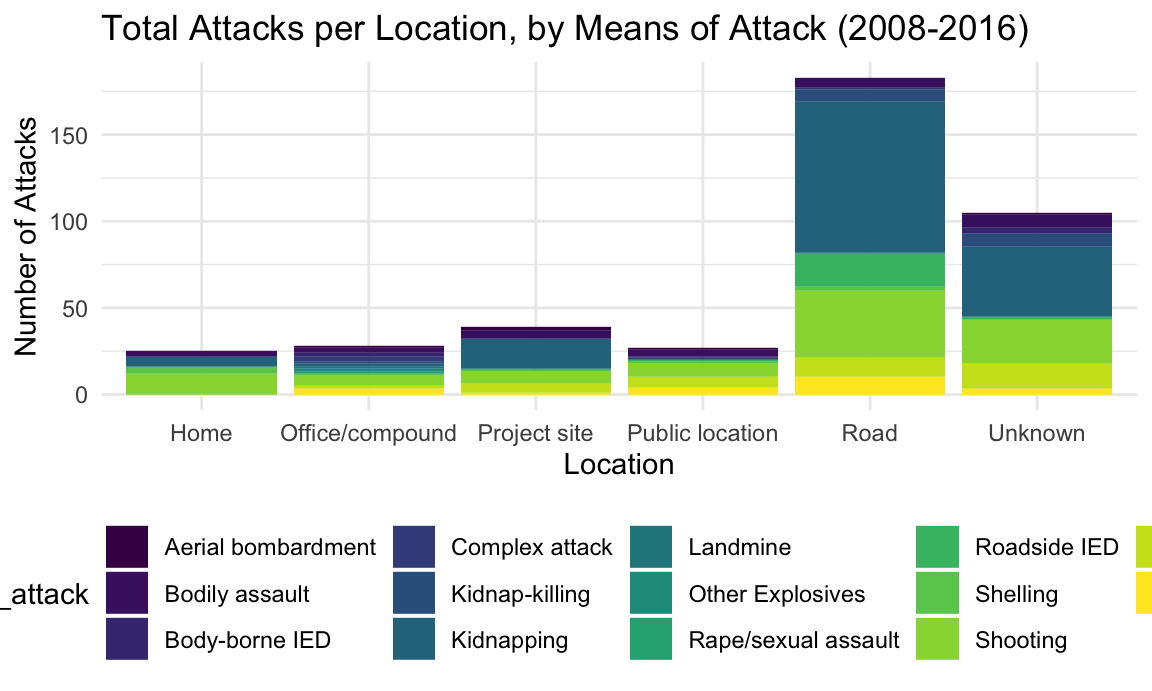
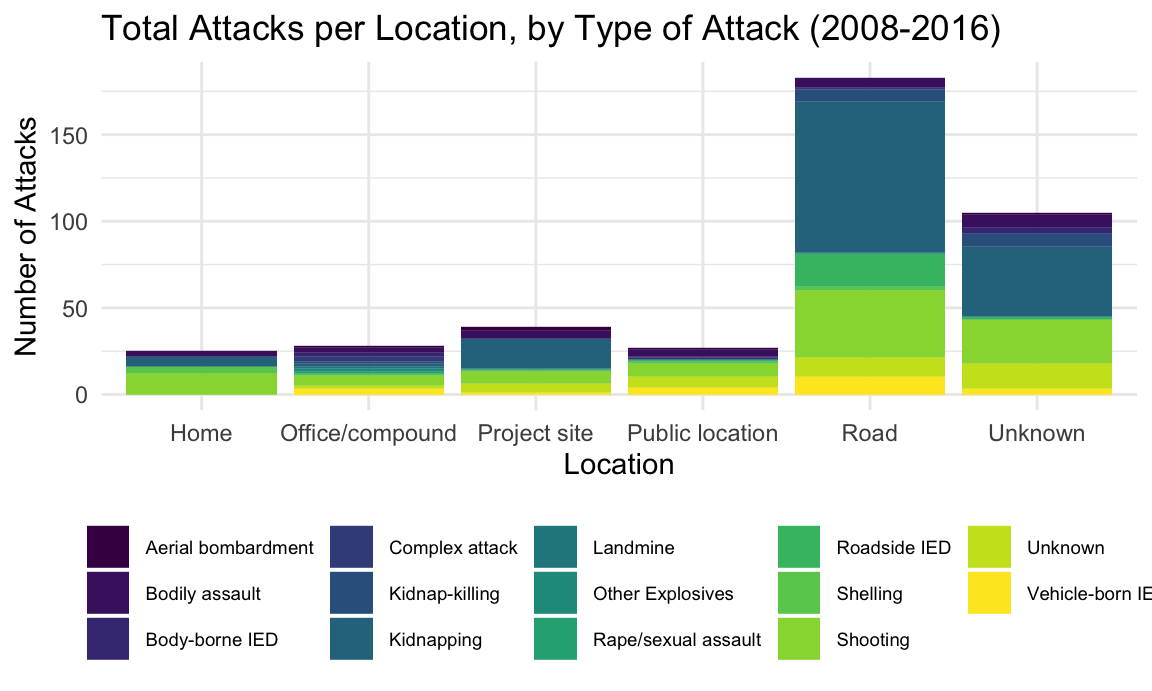
afghanistan almost finished

Changed region(s): [[0.0, 0.7598, 1.0, 0.9725], [0.5, 0.0, 0.9062, 0.0608]]

diff --git a/afghanistan_case_study.html b/afghanistan_case_study.html
@@ -508,11 +508,11 @@ afghan_aidworker_df %&gt;%
     x = ~year, y = ~total_victims, color = ~attack_context,
     type = &quot;scatter&quot;) %&gt;%
     layout(
-    title = &quot;Victims per Year by Attack Context (Left) and Type (Right)&quot;)
+    title = &quot;Victims per Year by Attack Context (Left) and Attack Type (Right)&quot;)
 
 subplot(means_attack_p, attack_context_p)</code></pre>
-<div id="htmlwidget-e7e4549a05555a524931" style="width:90%;height:345.6px;" class="plotly html-widget"></div>
-<script type="application/json" data-for="htmlwidget-e7e4549a05555a524931">{"x":{"data":[{"x":[2008,2009,2013,2015,2016],"y":[4,1,1,49,1],"type":"scatter","mode":"markers","name":"Aerial bombardment","marker":{"color":"rgba(102,194,165,1)","line":{"color":"rgba(102,194,165,1)"}},"textfont":{"color":"rgba(102,194,165,1)"},"error_y":{"color":"rgba(102,194,165,1)"},"error_x":{"color":"rgba(102,194,165,1)"},"line":{"color":"rgba(102,194,165,1)"},"xaxis":"x","yaxis":"y","frame":null},{"x":[2009,2009,2010,2010,2010,2011,2011,2011,2011,2011,2011,2011,2012,2012,2012,2012,2012,2013,2013,2013,2013,2013,2013,2014,2014,2014,2014,2015,2016],"y":[1,1,1,3,1,2,1,1,1,1,2,1,1,1,1,1,2,1,1,2,2,1,1,4,1,1,1,1,1],"type":"scatter","mode":"markers","name":"Bodily assault","marker":{"color":"rgba(199,169,129,1)","line":{"color":"rgba(199,169,129,1)"}},"textfont":{"color":"rgba(199,169,129,1)"},"error_y":{"color":"rgba(199,169,129,1)"},"error_x":{"color":"rgba(199,169,129,1)"},"line":{"color":"rgba(199,169,129,1)"},"xaxis":"x","yaxis":"y","frame":null},{"x":[2008,2009,2012,2013,2013,2013],"y":[1,12,1,1,4,1],"type":"scatter","mode":"markers","name":"Body-borne IED","marker":{"color":"rgba(246,143,106,1)","line":{"color":"rgba(246,143,106,1)"}},"textfont":{"color":"rgba(246,143,106,1)"},"error_y":{"color":"rgba(246,143,106,1)"},"error_x":{"color":"rgba(246,143,106,1)"},"line":{"color":"rgba(246,143,106,1)"},"xaxis":"x","yaxis":"y","frame":null},{"x":[2011,2012,2013,2013,2014],"y":[9,4,4,2,2],"type":"scatter","mode":"markers","name":"Complex attack","marker":{"color":"rgba(195,154,163,1)","line":{"color":"rgba(195,154,163,1)"}},"textfont":{"color":"rgba(195,154,163,1)"},"error_y":{"color":"rgba(195,154,163,1)"},"error_x":{"color":"rgba(195,154,163,1)"},"line":{"color":"rgba(195,154,163,1)"},"xaxis":"x","yaxis":"y","frame":null},{"x":[2008,2008,2008,2008,2010,2011,2011,2011,2011,2013,2013,2013,2014,2015,2015,2015],"y":[2,1,1,1,4,1,1,6,3,5,1,2,1,5,1,2],"type":"scatter","mode":"markers","name":"Kidnap-killing","marker":{"color":"rgba(157,157,202,1)","line":{"color":"rgba(157,157,202,1)"}},"textfont":{"color":"rgba(157,157,202,1)"},"error_y":{"color":"rgba(157,157,202,1)"},"error_x":{"color":"rgba(157,157,202,1)"},"line":{"color":"rgba(157,157,202,1)"},"xaxis":"x","yaxis":"y","frame":null},{"x":[2008,2008,2008,2008,2008,2008,2009,2009,2009,2009,2009,2009,2009,2009,2010,2010,2010,2010,2010,2010,2010,2010,2010,2010,2010,2010,2010,2010,2010,2010,2010,2010,2010,2010,2010,2010,2011,2011,2011,2011,2011,2011,2011,2011,2011,2011,2011,2011,2011,2011,2012,2012,2012,2012,2012,2012,2012,2012,2012,2012,2012,2012,2012,2012,2012,2012,2012,2012,2012,2012,2012,2012,2013,2013,2013,2013,2013,2013,2013,2013,2013,2013,2013,2013,2013,2013,2013,2013,2013,2013,2013,2013,2013,2013,2013,2013,2013,2013,2013,2013,2014,2014,2014,2014,2014,2014,2014,2014,2014,2014,2014,2014,2014,2014,2014,2014,2014,2014,2014,2014,2014,2014,2014,2014,2015,2015,2015,2015,2015,2015,2015,2015,2015,2015,2015,2015,2015,2015,2016,2016,2016,2016,2016,2016,2016,2016,2016,2016,2016,2016,2016,2016],"y":[2,3,2,1,1,1,3,1,2,1,1,1,16,2,3,1,5,2,3,4,2,2,2,2,2,5,4,4,1,2,2,1,1,3,1,1,1,3,2,1,1,3,2,3,1,4,2,3,4,1,1,2,3,1,5,4,2,1,1,2,1,1,1,2,4,4,1,2,1,3,3,5,4,1,1,3,1,1,1,1,10,3,11,2,3,1,3,3,2,2,5,2,1,3,1,3,2,3,1,1,3,1,1,3,2,1,4,1,1,2,1,1,4,1,5,3,7,3,2,1,6,3,1,4,1,3,1,2,1,2,1,3,2,2,1,2,1,2,4,5,7,2,7,1,1,2,1,3,2,1,4,1],"type":"scatter","mode":"markers","name":"Kidnapping","marker":{"color":"rgba(206,146,197,1)","line":{"color":"rgba(206,146,197,1)"}},"textfont":{"color":"rgba(206,146,197,1)"},"error_y":{"color":"rgba(206,146,197,1)"},"error_x":{"color":"rgba(206,146,197,1)"},"line":{"color":"rgba(206,146,197,1)"},"xaxis":"x","yaxis":"y","frame":null},{"x":[2010,2015],"y":[5,1],"type":"scatter","mode":"markers","name":"Landmine","marker":{"color":"rgba(220,159,172,1)","line":{"color":"rgba(220,159,172,1)"}},"textfont":{"color":"rgba(220,159,172,1)"},"error_y":{"color":"rgba(220,159,172,1)"},"error_x":{"color":"rgba(220,159,172,1)"},"line":{"color":"rgba(220,159,172,1)"},"xaxis":"x","yaxis":"y","frame":null},{"x":[2012,2013,2014],"y":[3,3,1],"type":"scatter","mode":"markers","name":"Other Explosives","marker":{"color":"rgba(186,200,114,1)","line":{"color":"rgba(186,200,114,1)"}},"textfont":{"color":"rgba(186,200,114,1)"},"error_y":{"color":"rgba(186,200,114,1)"},"error_x":{"color":"rgba(186,200,114,1)"},"line":{"color":"rgba(186,200,114,1)"},"xaxis":"x","yaxis":"y","frame":null},{"x":[2013],"y":[1],"type":"scatter","mode":"markers","name":"Rape/sexual assault","marker":{"color":"rgba(196,217,74,1)","line":{"color":"rgba(196,217,74,1)"}},"textfont":{"color":"rgba(196,217,74,1)"},"error_y":{"color":"rgba(196,217,74,1)"},"error_x":{"color":"rgba(196,217,74,1)"},"line":{"color":"rgba(196,217,74,1)"},"xaxis":"x","yaxis":"y","frame":null},{"x":[2008,2009,2010,2010,2011,2012,2012,2012,2012,2013,2013,2013,2013,2013,2013,2014,2014,2014,2014,2015,2015,2016],"y":[1,3,3,2,3,1,1,1,1,1,3,2,1,1,1,3,1,3,2,1,1,1],"type":"scatter","mode":"markers","name":"Roadside IED","marker":{"color":"rgba(242,217,54,1)","line":{"color":"rgba(242,217,54,1)"}},"textfont":{"color":"rgba(242,217,54,1)"},"error_y":{"color":"rgba(242,217,54,1)"},"error_x":{"color":"rgba(242,217,54,1)"},"line":{"color":"rgba(242,217,54,1)"},"xaxis":"x","yaxis":"y","frame":null},{"x":[2009,2010,2010,2010,2011,2011,2013,2013,2013],"y":[1,1,4,1,1,3,1,1,1],"type":"scatter","mode":"markers","name":"Shelling","marker":{"color":"rgba(246,209,94,1)","line":{"color":"rgba(246,209,94,1)"}},"textfont":{"color":"rgba(246,209,94,1)"},"error_y":{"color":"rgba(246,209,94,1)"},"error_x":{"color":"rgba(246,209,94,1)"},"line":{"color":"rgba(246,209,94,1)"},"xaxis":"x","yaxis":"y","frame":null},{"x":[2008,2008,2008,2008,2008,2008,2008,2008,2009,2009,2009,2009,2009,2009,2010,2010,2010,2010,2010,2010,2010,2010,2010,2010,2010,2010,2010,2010,2011,2011,2011,2011,2011,2011,2011,2011,2011,2011,2011,2011,2011,2011,2011,2012,2012,2012,2012,2012,2012,2012,2012,2012,2012,2012,2012,2012,2012,2012,2012,2013,2013,2013,2013,2013,2013,2013,2013,2013,2013,2013,2013,2013,2013,2013,2013,2013,2013,2014,2014,2014,2014,2014,2014,2014,2014,2014,2014,2015,2015,2015,2016,2016,2016,2016,2016,2016,2016],"y":[1,1,2,1,5,1,1,1,1,1,1,1,1,1,4,1,1,1,1,2,1,1,2,1,2,1,1,1,1,1,1,3,1,1,1,1,1,1,1,1,1,1,1,1,1,1,1,1,1,2,1,1,1,1,4,1,1,1,1,1,1,1,4,1,1,1,2,1,1,1,1,1,1,4,2,1,7,1,1,1,2,1,1,1,2,1,2,9,1,2,1,2,7,3,1,1,1],"type":"scatter","mode":"markers","name":"Shooting","marker":{"color":"rgba(231,198,142,1)","line":{"color":"rgba(231,198,142,1)"}},"textfont":{"color":"rgba(231,198,142,1)"},"error_y":{"color":"rgba(231,198,142,1)"},"error_x":{"color":"rgba(231,198,142,1)"},"line":{"color":"rgba(231,198,142,1)"},"xaxis":"x","yaxis":"y","frame":null},{"x":[2008,2008,2008,2008,2008,2008,2008,2009,2009,2009,2009,2009,2010,2010,2010,2010,2010,2010,2010,2010,2010,2010,2011,2011,2011,2011,2011,2012,2012,2013,2013,2013,2013,2014,2014,2014,2014,2014,2015],"y":[1,1,12,1,2,6,1,1,1,1,1,5,1,1,1,1,1,10,1,1,1,2,1,1,1,1,1,1,4,3,1,3,2,1,11,6,7,2,3],"type":"scatter","mode":"markers","name":"Unknown","marker":{"color":"rgba(207,188,163,1)","line":{"color":"rgba(207,188,163,1)"}},"textfont":{"color":"rgba(207,188,163,1)"},"error_y":{"color":"rgba(207,188,163,1)"},"error_x":{"color":"rgba(207,188,163,1)"},"line":{"color":"rgba(207,188,163,1)"},"xaxis":"x","yaxis":"y","frame":null},{"x":[2008,2008,2009,2010,2011,2011,2012,2012,2012,2012,2013,2013,2013,2013,2013,2014,2014,2014,2014,2015,2016],"y":[4,1,1,1,3,2,2,2,3,5,2,1,1,1,1,1,2,1,2,1,3],"type":"scatter","mode":"markers","name":"Vehicle-born IED","marker":{"color":"rgba(179,179,179,1)","line":{"color":"rgba(179,179,179,1)"}},"textfont":{"color":"rgba(179,179,179,1)"},"error_y":{"color":"rgba(179,179,179,1)"},"error_x":{"color":"rgba(179,179,179,1)"},"line":{"color":"rgba(179,179,179,1)"},"xaxis":"x","yaxis":"y","frame":null},{"x":[2008,2008,2008,2008,2008,2008,2008,2008,2008,2008,2008,2008,2008,2008,2008,2009,2009,2009,2009,2009,2010,2010,2010,2010,2010,2010,2010,2010,2010,2010,2010,2010,2010,2010,2010,2010,2010,2010,2010,2010,2010,2010,2010,2010,2010,2010,2010,2010,2011,2011,2011,2011,2011,2011,2011,2011,2011,2011,2011,2011,2011,2011,2011,2011,2011,2011,2011,2011,2011,2012,2012,2012,2012,2012,2012,2012,2012,2012,2012,2012,2012,2012,2012,2012,2012,2012,2012,2012,2012,2012,2012,2012,2012,2012,2012,2012,2012,2012,2012,2013,2013,2013,2013,2013,2013,2013,2013,2013,2013,2013,2013,2013,2013,2013,2013,2013,2013,2013,2013,2013,2013,2013,2013,2013,2013,2013,2013,2013,2013,2013,2013,2013,2013,2013,2014,2014,2014,2014,2014,2014,2014,2014,2014,2014,2014,2014,2014,2014,2014,2014,2014,2015,2015,2015,2015,2015,2015,2015,2015,2015,2015,2015,2015,2015,2015,2016,2016,2016,2016,2016,2016,2016,2016,2016,2016,2016,2016],"y":[2,1,12,2,1,2,3,5,1,6,4,1,1,1,1,1,1,1,1,16,5,1,5,1,1,2,4,1,2,2,10,2,5,3,2,1,4,4,1,2,2,1,2,2,3,1,1,1,3,1,1,1,3,3,2,1,1,1,1,3,3,1,2,2,3,2,3,4,1,1,2,1,3,1,1,4,1,1,1,2,1,1,1,2,1,1,4,2,1,3,1,4,4,2,1,1,1,1,3,4,1,1,1,3,1,4,1,1,3,11,3,2,2,1,3,1,3,2,2,1,1,1,1,1,5,2,1,4,3,2,2,7,1,1,3,3,3,1,2,2,1,2,1,6,4,2,5,3,2,3,1,3,1,2,3,1,2,1,3,1,2,1,1,1,2,5,2,7,2,1,3,1,3,1,4,1,1],"type":"scatter","mode":"markers","name":"Ambush","marker":{"color":"rgba(102,194,165,1)","line":{"color":"rgba(102,194,165,1)"}},"textfont":{"color":"rgba(102,194,165,1)"},"error_y":{"color":"rgba(102,194,165,1)"},"error_x":{"color":"rgba(102,194,165,1)"},"line":{"color":"rgba(102,194,165,1)"},"xaxis":"x2","yaxis":"y2","frame":null},{"x":[2008,2008,2009,2009,2009,2009,2010,2010,2010,2011,2011,2011,2011,2011,2011,2011,2011,2012,2012,2012,2012,2012,2012,2013,2013,2013,2013,2013,2013,2013,2013,2013,2014,2014,2015,2015,2016,2016],"y":[4,1,1,1,1,1,1,1,1,1,1,1,1,1,1,1,3,1,1,2,1,1,1,1,1,1,1,1,1,1,2,1,2,1,49,2,1,1],"type":"scatter","mode":"markers","name":"Combat/Crossfire","marker":{"color":"rgba(252,141,98,1)","line":{"color":"rgba(252,141,98,1)"}},"textfont":{"color":"rgba(252,141,98,1)"},"error_y":{"color":"rgba(252,141,98,1)"},"error_x":{"color":"rgba(252,141,98,1)"},"line":{"color":"rgba(252,141,98,1)"},"xaxis":"x2","yaxis":"y2","frame":null},{"x":[2008,2008,2008,2008,2009,2009,2009,2009,2009,2010,2010,2010,2010,2010,2010,2010,2010,2010,2010,2010,2011,2011,2011,2011,2011,2011,2011,2011,2011,2011,2011,2012,2012,2012,2012,2012,2012,2013,2013,2013,2013,2013,2013,2013,2013,2013,2013,2013,2013,2013,2013,2013,2014,2014,2014,2014,2014,2014,2016,2016,2016],"y":[1,1,1,1,1,1,1,1,1,4,1,1,1,1,1,2,1,1,3,1,1,1,1,1,1,1,2,1,1,3,1,1,1,1,1,1,1,1,1,1,1,1,1,1,1,1,2,1,2,1,1,3,1,2,1,1,1,1,1,1,1],"type":"scatter","mode":"markers","name":"Individual attack","marker":{"color":"rgba(141,160,203,1)","line":{"color":"rgba(141,160,203,1)"}},"textfont":{"color":"rgba(141,160,203,1)"},"error_y":{"color":"rgba(141,160,203,1)"},"error_x":{"color":"rgba(141,160,203,1)"},"line":{"color":"rgba(141,160,203,1)"},"xaxis":"x2","yaxis":"y2","frame":null},{"x":[2012,2013],"y":[2,2],"type":"scatter","mode":"markers","name":"Mob violence","marker":{"color":"rgba(231,138,195,1)","line":{"color":"rgba(231,138,195,1)"}},"textfont":{"color":"rgba(231,138,195,1)"},"error_y":{"color":"rgba(231,138,195,1)"},"error_x":{"color":"rgba(231,138,195,1)"},"line":{"color":"rgba(231,138,195,1)"},"xaxis":"x2","yaxis":"y2","frame":null},{"x":[2008,2008,2008,2009,2009,2010,2010,2011,2011,2011,2011,2012,2012,2012,2012,2012,2012,2012,2012,2012,2013,2013,2013,2013,2013,2013,2013,2014,2014,2014,2014,2014,2015,2015,2015,2015,2016,2016,2016,2016,2016],"y":[2,1,1,1,12,1,1,2,1,1,9,1,1,2,5,3,2,4,5,5,1,2,3,1,4,4,3,2,1,1,2,2,1,9,1,1,3,7,7,1,1],"type":"scatter","mode":"markers","name":"Raid","marker":{"color":"rgba(166,216,84,1)","line":{"color":"rgba(166,216,84,1)"}},"textfont":{"color":"rgba(166,216,84,1)"},"error_y":{"color":"rgba(166,216,84,1)"},"error_x":{"color":"rgba(166,216,84,1)"},"line":{"color":"rgba(166,216,84,1)"},"xaxis":"x2","yaxis":"y2","frame":null},{"x":[2008,2008,2008,2008,2008,2008,2009,2009,2009,2009,2009,2009,2009,2009,2009,2009,2010,2010,2010,2010,2010,2010,2010,2010,2010,2010,2010,2010,2010,2011,2011,2011,2011,2011,2011,2011,2012,2012,2012,2012,2013,2013,2013,2013,2013,2013,2013,2013,2013,2013,2013,2013,2013,2013,2014,2014,2014,2014,2014,2014,2014,2014,2014,2014,2014,2014,2014,2014,2014,2014,2014,2014,2014,2014,2014,2014,2014,2014,2015,2015,2015,2015,2015,2015,2015,2016,2016,2016],"y":[1,1,1,1,2,1,3,2,1,1,1,3,2,1,1,5,1,1,3,1,3,4,2,2,4,1,1,2,1,1,1,1,1,6,1,4,1,1,4,3,1,1,10,1,5,1,3,1,1,3,2,2,3,1,4,1,1,1,1,1,1,1,4,1,1,3,1,11,1,1,7,2,1,7,3,1,6,4,5,1,2,1,2,2,1,4,2,2],"type":"scatter","mode":"markers","name":"Unknown","marker":{"color":"rgba(255,217,47,1)","line":{"color":"rgba(255,217,47,1)"}},"textfont":{"color":"rgba(255,217,47,1)"},"error_y":{"color":"rgba(255,217,47,1)"},"error_x":{"color":"rgba(255,217,47,1)"},"line":{"color":"rgba(255,217,47,1)"},"xaxis":"x2","yaxis":"y2","frame":null}],"layout":{"xaxis":{"domain":[0,0.48],"automargin":true,"anchor":"y"},"xaxis2":{"domain":[0.52,1],"automargin":true,"anchor":"y2"},"yaxis2":{"domain":[0,1],"automargin":true,"anchor":"x2"},"yaxis":{"domain":[0,1],"automargin":true,"anchor":"x"},"annotations":[],"shapes":[],"images":[],"margin":{"b":40,"l":60,"t":25,"r":10},"title":"Victims per Year by Attack Context (Left) and Type (Right)","hovermode":"closest","showlegend":true},"attrs":{"626a482eac7c":{"x":{},"y":{},"color":{},"alpha_stroke":1,"sizes":[10,100],"spans":[1,20],"type":"scatter"},"626a703e25e9":{"x":{},"y":{},"color":{},"alpha_stroke":1,"sizes":[10,100],"spans":[1,20],"type":"scatter"}},"source":"A","config":{"showSendToCloud":false},"highlight":{"on":"plotly_click","persistent":false,"dynamic":false,"selectize":false,"opacityDim":0.2,"selected":{"opacity":1},"debounce":0},"subplot":true,"shinyEvents":["plotly_hover","plotly_click","plotly_selected","plotly_relayout","plotly_brushed","plotly_brushing","plotly_clickannotation","plotly_doubleclick","plotly_deselect","plotly_afterplot","plotly_sunburstclick"],"base_url":"https://plot.ly"},"evals":[],"jsHooks":[]}</script>
+<div id="htmlwidget-2b1147f91043cbf0282f" style="width:90%;height:345.6px;" class="plotly html-widget"></div>
+<script type="application/json" data-for="htmlwidget-2b1147f91043cbf0282f">{"x":{"data":[{"x":[2008,2009,2013,2015,2016],"y":[4,1,1,49,1],"type":"scatter","mode":"markers","name":"Aerial bombardment","marker":{"color":"rgba(102,194,165,1)","line":{"color":"rgba(102,194,165,1)"}},"textfont":{"color":"rgba(102,194,165,1)"},"error_y":{"color":"rgba(102,194,165,1)"},"error_x":{"color":"rgba(102,194,165,1)"},"line":{"color":"rgba(102,194,165,1)"},"xaxis":"x","yaxis":"y","frame":null},{"x":[2009,2009,2010,2010,2010,2011,2011,2011,2011,2011,2011,2011,2012,2012,2012,2012,2012,2013,2013,2013,2013,2013,2013,2014,2014,2014,2014,2015,2016],"y":[1,1,1,3,1,2,1,1,1,1,2,1,1,1,1,1,2,1,1,2,2,1,1,4,1,1,1,1,1],"type":"scatter","mode":"markers","name":"Bodily assault","marker":{"color":"rgba(199,169,129,1)","line":{"color":"rgba(199,169,129,1)"}},"textfont":{"color":"rgba(199,169,129,1)"},"error_y":{"color":"rgba(199,169,129,1)"},"error_x":{"color":"rgba(199,169,129,1)"},"line":{"color":"rgba(199,169,129,1)"},"xaxis":"x","yaxis":"y","frame":null},{"x":[2008,2009,2012,2013,2013,2013],"y":[1,12,1,1,4,1],"type":"scatter","mode":"markers","name":"Body-borne IED","marker":{"color":"rgba(246,143,106,1)","line":{"color":"rgba(246,143,106,1)"}},"textfont":{"color":"rgba(246,143,106,1)"},"error_y":{"color":"rgba(246,143,106,1)"},"error_x":{"color":"rgba(246,143,106,1)"},"line":{"color":"rgba(246,143,106,1)"},"xaxis":"x","yaxis":"y","frame":null},{"x":[2011,2012,2013,2013,2014],"y":[9,4,4,2,2],"type":"scatter","mode":"markers","name":"Complex attack","marker":{"color":"rgba(195,154,163,1)","line":{"color":"rgba(195,154,163,1)"}},"textfont":{"color":"rgba(195,154,163,1)"},"error_y":{"color":"rgba(195,154,163,1)"},"error_x":{"color":"rgba(195,154,163,1)"},"line":{"color":"rgba(195,154,163,1)"},"xaxis":"x","yaxis":"y","frame":null},{"x":[2008,2008,2008,2008,2010,2011,2011,2011,2011,2013,2013,2013,2014,2015,2015,2015],"y":[2,1,1,1,4,1,1,6,3,5,1,2,1,5,1,2],"type":"scatter","mode":"markers","name":"Kidnap-killing","marker":{"color":"rgba(157,157,202,1)","line":{"color":"rgba(157,157,202,1)"}},"textfont":{"color":"rgba(157,157,202,1)"},"error_y":{"color":"rgba(157,157,202,1)"},"error_x":{"color":"rgba(157,157,202,1)"},"line":{"color":"rgba(157,157,202,1)"},"xaxis":"x","yaxis":"y","frame":null},{"x":[2008,2008,2008,2008,2008,2008,2009,2009,2009,2009,2009,2009,2009,2009,2010,2010,2010,2010,2010,2010,2010,2010,2010,2010,2010,2010,2010,2010,2010,2010,2010,2010,2010,2010,2010,2010,2011,2011,2011,2011,2011,2011,2011,2011,2011,2011,2011,2011,2011,2011,2012,2012,2012,2012,2012,2012,2012,2012,2012,2012,2012,2012,2012,2012,2012,2012,2012,2012,2012,2012,2012,2012,2013,2013,2013,2013,2013,2013,2013,2013,2013,2013,2013,2013,2013,2013,2013,2013,2013,2013,2013,2013,2013,2013,2013,2013,2013,2013,2013,2013,2014,2014,2014,2014,2014,2014,2014,2014,2014,2014,2014,2014,2014,2014,2014,2014,2014,2014,2014,2014,2014,2014,2014,2014,2015,2015,2015,2015,2015,2015,2015,2015,2015,2015,2015,2015,2015,2015,2016,2016,2016,2016,2016,2016,2016,2016,2016,2016,2016,2016,2016,2016],"y":[2,3,2,1,1,1,3,1,2,1,1,1,16,2,3,1,5,2,3,4,2,2,2,2,2,5,4,4,1,2,2,1,1,3,1,1,1,3,2,1,1,3,2,3,1,4,2,3,4,1,1,2,3,1,5,4,2,1,1,2,1,1,1,2,4,4,1,2,1,3,3,5,4,1,1,3,1,1,1,1,10,3,11,2,3,1,3,3,2,2,5,2,1,3,1,3,2,3,1,1,3,1,1,3,2,1,4,1,1,2,1,1,4,1,5,3,7,3,2,1,6,3,1,4,1,3,1,2,1,2,1,3,2,2,1,2,1,2,4,5,7,2,7,1,1,2,1,3,2,1,4,1],"type":"scatter","mode":"markers","name":"Kidnapping","marker":{"color":"rgba(206,146,197,1)","line":{"color":"rgba(206,146,197,1)"}},"textfont":{"color":"rgba(206,146,197,1)"},"error_y":{"color":"rgba(206,146,197,1)"},"error_x":{"color":"rgba(206,146,197,1)"},"line":{"color":"rgba(206,146,197,1)"},"xaxis":"x","yaxis":"y","frame":null},{"x":[2010,2015],"y":[5,1],"type":"scatter","mode":"markers","name":"Landmine","marker":{"color":"rgba(220,159,172,1)","line":{"color":"rgba(220,159,172,1)"}},"textfont":{"color":"rgba(220,159,172,1)"},"error_y":{"color":"rgba(220,159,172,1)"},"error_x":{"color":"rgba(220,159,172,1)"},"line":{"color":"rgba(220,159,172,1)"},"xaxis":"x","yaxis":"y","frame":null},{"x":[2012,2013,2014],"y":[3,3,1],"type":"scatter","mode":"markers","name":"Other Explosives","marker":{"color":"rgba(186,200,114,1)","line":{"color":"rgba(186,200,114,1)"}},"textfont":{"color":"rgba(186,200,114,1)"},"error_y":{"color":"rgba(186,200,114,1)"},"error_x":{"color":"rgba(186,200,114,1)"},"line":{"color":"rgba(186,200,114,1)"},"xaxis":"x","yaxis":"y","frame":null},{"x":[2013],"y":[1],"type":"scatter","mode":"markers","name":"Rape/sexual assault","marker":{"color":"rgba(196,217,74,1)","line":{"color":"rgba(196,217,74,1)"}},"textfont":{"color":"rgba(196,217,74,1)"},"error_y":{"color":"rgba(196,217,74,1)"},"error_x":{"color":"rgba(196,217,74,1)"},"line":{"color":"rgba(196,217,74,1)"},"xaxis":"x","yaxis":"y","frame":null},{"x":[2008,2009,2010,2010,2011,2012,2012,2012,2012,2013,2013,2013,2013,2013,2013,2014,2014,2014,2014,2015,2015,2016],"y":[1,3,3,2,3,1,1,1,1,1,3,2,1,1,1,3,1,3,2,1,1,1],"type":"scatter","mode":"markers","name":"Roadside IED","marker":{"color":"rgba(242,217,54,1)","line":{"color":"rgba(242,217,54,1)"}},"textfont":{"color":"rgba(242,217,54,1)"},"error_y":{"color":"rgba(242,217,54,1)"},"error_x":{"color":"rgba(242,217,54,1)"},"line":{"color":"rgba(242,217,54,1)"},"xaxis":"x","yaxis":"y","frame":null},{"x":[2009,2010,2010,2010,2011,2011,2013,2013,2013],"y":[1,1,4,1,1,3,1,1,1],"type":"scatter","mode":"markers","name":"Shelling","marker":{"color":"rgba(246,209,94,1)","line":{"color":"rgba(246,209,94,1)"}},"textfont":{"color":"rgba(246,209,94,1)"},"error_y":{"color":"rgba(246,209,94,1)"},"error_x":{"color":"rgba(246,209,94,1)"},"line":{"color":"rgba(246,209,94,1)"},"xaxis":"x","yaxis":"y","frame":null},{"x":[2008,2008,2008,2008,2008,2008,2008,2008,2009,2009,2009,2009,2009,2009,2010,2010,2010,2010,2010,2010,2010,2010,2010,2010,2010,2010,2010,2010,2011,2011,2011,2011,2011,2011,2011,2011,2011,2011,2011,2011,2011,2011,2011,2012,2012,2012,2012,2012,2012,2012,2012,2012,2012,2012,2012,2012,2012,2012,2012,2013,2013,2013,2013,2013,2013,2013,2013,2013,2013,2013,2013,2013,2013,2013,2013,2013,2013,2014,2014,2014,2014,2014,2014,2014,2014,2014,2014,2015,2015,2015,2016,2016,2016,2016,2016,2016,2016],"y":[1,1,2,1,5,1,1,1,1,1,1,1,1,1,4,1,1,1,1,2,1,1,2,1,2,1,1,1,1,1,1,3,1,1,1,1,1,1,1,1,1,1,1,1,1,1,1,1,1,2,1,1,1,1,4,1,1,1,1,1,1,1,4,1,1,1,2,1,1,1,1,1,1,4,2,1,7,1,1,1,2,1,1,1,2,1,2,9,1,2,1,2,7,3,1,1,1],"type":"scatter","mode":"markers","name":"Shooting","marker":{"color":"rgba(231,198,142,1)","line":{"color":"rgba(231,198,142,1)"}},"textfont":{"color":"rgba(231,198,142,1)"},"error_y":{"color":"rgba(231,198,142,1)"},"error_x":{"color":"rgba(231,198,142,1)"},"line":{"color":"rgba(231,198,142,1)"},"xaxis":"x","yaxis":"y","frame":null},{"x":[2008,2008,2008,2008,2008,2008,2008,2009,2009,2009,2009,2009,2010,2010,2010,2010,2010,2010,2010,2010,2010,2010,2011,2011,2011,2011,2011,2012,2012,2013,2013,2013,2013,2014,2014,2014,2014,2014,2015],"y":[1,1,12,1,2,6,1,1,1,1,1,5,1,1,1,1,1,10,1,1,1,2,1,1,1,1,1,1,4,3,1,3,2,1,11,6,7,2,3],"type":"scatter","mode":"markers","name":"Unknown","marker":{"color":"rgba(207,188,163,1)","line":{"color":"rgba(207,188,163,1)"}},"textfont":{"color":"rgba(207,188,163,1)"},"error_y":{"color":"rgba(207,188,163,1)"},"error_x":{"color":"rgba(207,188,163,1)"},"line":{"color":"rgba(207,188,163,1)"},"xaxis":"x","yaxis":"y","frame":null},{"x":[2008,2008,2009,2010,2011,2011,2012,2012,2012,2012,2013,2013,2013,2013,2013,2014,2014,2014,2014,2015,2016],"y":[4,1,1,1,3,2,2,2,3,5,2,1,1,1,1,1,2,1,2,1,3],"type":"scatter","mode":"markers","name":"Vehicle-born IED","marker":{"color":"rgba(179,179,179,1)","line":{"color":"rgba(179,179,179,1)"}},"textfont":{"color":"rgba(179,179,179,1)"},"error_y":{"color":"rgba(179,179,179,1)"},"error_x":{"color":"rgba(179,179,179,1)"},"line":{"color":"rgba(179,179,179,1)"},"xaxis":"x","yaxis":"y","frame":null},{"x":[2008,2008,2008,2008,2008,2008,2008,2008,2008,2008,2008,2008,2008,2008,2008,2009,2009,2009,2009,2009,2010,2010,2010,2010,2010,2010,2010,2010,2010,2010,2010,2010,2010,2010,2010,2010,2010,2010,2010,2010,2010,2010,2010,2010,2010,2010,2010,2010,2011,2011,2011,2011,2011,2011,2011,2011,2011,2011,2011,2011,2011,2011,2011,2011,2011,2011,2011,2011,2011,2012,2012,2012,2012,2012,2012,2012,2012,2012,2012,2012,2012,2012,2012,2012,2012,2012,2012,2012,2012,2012,2012,2012,2012,2012,2012,2012,2012,2012,2012,2013,2013,2013,2013,2013,2013,2013,2013,2013,2013,2013,2013,2013,2013,2013,2013,2013,2013,2013,2013,2013,2013,2013,2013,2013,2013,2013,2013,2013,2013,2013,2013,2013,2013,2013,2014,2014,2014,2014,2014,2014,2014,2014,2014,2014,2014,2014,2014,2014,2014,2014,2014,2015,2015,2015,2015,2015,2015,2015,2015,2015,2015,2015,2015,2015,2015,2016,2016,2016,2016,2016,2016,2016,2016,2016,2016,2016,2016],"y":[2,1,12,2,1,2,3,5,1,6,4,1,1,1,1,1,1,1,1,16,5,1,5,1,1,2,4,1,2,2,10,2,5,3,2,1,4,4,1,2,2,1,2,2,3,1,1,1,3,1,1,1,3,3,2,1,1,1,1,3,3,1,2,2,3,2,3,4,1,1,2,1,3,1,1,4,1,1,1,2,1,1,1,2,1,1,4,2,1,3,1,4,4,2,1,1,1,1,3,4,1,1,1,3,1,4,1,1,3,11,3,2,2,1,3,1,3,2,2,1,1,1,1,1,5,2,1,4,3,2,2,7,1,1,3,3,3,1,2,2,1,2,1,6,4,2,5,3,2,3,1,3,1,2,3,1,2,1,3,1,2,1,1,1,2,5,2,7,2,1,3,1,3,1,4,1,1],"type":"scatter","mode":"markers","name":"Ambush","marker":{"color":"rgba(102,194,165,1)","line":{"color":"rgba(102,194,165,1)"}},"textfont":{"color":"rgba(102,194,165,1)"},"error_y":{"color":"rgba(102,194,165,1)"},"error_x":{"color":"rgba(102,194,165,1)"},"line":{"color":"rgba(102,194,165,1)"},"xaxis":"x2","yaxis":"y2","frame":null},{"x":[2008,2008,2009,2009,2009,2009,2010,2010,2010,2011,2011,2011,2011,2011,2011,2011,2011,2012,2012,2012,2012,2012,2012,2013,2013,2013,2013,2013,2013,2013,2013,2013,2014,2014,2015,2015,2016,2016],"y":[4,1,1,1,1,1,1,1,1,1,1,1,1,1,1,1,3,1,1,2,1,1,1,1,1,1,1,1,1,1,2,1,2,1,49,2,1,1],"type":"scatter","mode":"markers","name":"Combat/Crossfire","marker":{"color":"rgba(252,141,98,1)","line":{"color":"rgba(252,141,98,1)"}},"textfont":{"color":"rgba(252,141,98,1)"},"error_y":{"color":"rgba(252,141,98,1)"},"error_x":{"color":"rgba(252,141,98,1)"},"line":{"color":"rgba(252,141,98,1)"},"xaxis":"x2","yaxis":"y2","frame":null},{"x":[2008,2008,2008,2008,2009,2009,2009,2009,2009,2010,2010,2010,2010,2010,2010,2010,2010,2010,2010,2010,2011,2011,2011,2011,2011,2011,2011,2011,2011,2011,2011,2012,2012,2012,2012,2012,2012,2013,2013,2013,2013,2013,2013,2013,2013,2013,2013,2013,2013,2013,2013,2013,2014,2014,2014,2014,2014,2014,2016,2016,2016],"y":[1,1,1,1,1,1,1,1,1,4,1,1,1,1,1,2,1,1,3,1,1,1,1,1,1,1,2,1,1,3,1,1,1,1,1,1,1,1,1,1,1,1,1,1,1,1,2,1,2,1,1,3,1,2,1,1,1,1,1,1,1],"type":"scatter","mode":"markers","name":"Individual attack","marker":{"color":"rgba(141,160,203,1)","line":{"color":"rgba(141,160,203,1)"}},"textfont":{"color":"rgba(141,160,203,1)"},"error_y":{"color":"rgba(141,160,203,1)"},"error_x":{"color":"rgba(141,160,203,1)"},"line":{"color":"rgba(141,160,203,1)"},"xaxis":"x2","yaxis":"y2","frame":null},{"x":[2012,2013],"y":[2,2],"type":"scatter","mode":"markers","name":"Mob violence","marker":{"color":"rgba(231,138,195,1)","line":{"color":"rgba(231,138,195,1)"}},"textfont":{"color":"rgba(231,138,195,1)"},"error_y":{"color":"rgba(231,138,195,1)"},"error_x":{"color":"rgba(231,138,195,1)"},"line":{"color":"rgba(231,138,195,1)"},"xaxis":"x2","yaxis":"y2","frame":null},{"x":[2008,2008,2008,2009,2009,2010,2010,2011,2011,2011,2011,2012,2012,2012,2012,2012,2012,2012,2012,2012,2013,2013,2013,2013,2013,2013,2013,2014,2014,2014,2014,2014,2015,2015,2015,2015,2016,2016,2016,2016,2016],"y":[2,1,1,1,12,1,1,2,1,1,9,1,1,2,5,3,2,4,5,5,1,2,3,1,4,4,3,2,1,1,2,2,1,9,1,1,3,7,7,1,1],"type":"scatter","mode":"markers","name":"Raid","marker":{"color":"rgba(166,216,84,1)","line":{"color":"rgba(166,216,84,1)"}},"textfont":{"color":"rgba(166,216,84,1)"},"error_y":{"color":"rgba(166,216,84,1)"},"error_x":{"color":"rgba(166,216,84,1)"},"line":{"color":"rgba(166,216,84,1)"},"xaxis":"x2","yaxis":"y2","frame":null},{"x":[2008,2008,2008,2008,2008,2008,2009,2009,2009,2009,2009,2009,2009,2009,2009,2009,2010,2010,2010,2010,2010,2010,2010,2010,2010,2010,2010,2010,2010,2011,2011,2011,2011,2011,2011,2011,2012,2012,2012,2012,2013,2013,2013,2013,2013,2013,2013,2013,2013,2013,2013,2013,2013,2013,2014,2014,2014,2014,2014,2014,2014,2014,2014,2014,2014,2014,2014,2014,2014,2014,2014,2014,2014,2014,2014,2014,2014,2014,2015,2015,2015,2015,2015,2015,2015,2016,2016,2016],"y":[1,1,1,1,2,1,3,2,1,1,1,3,2,1,1,5,1,1,3,1,3,4,2,2,4,1,1,2,1,1,1,1,1,6,1,4,1,1,4,3,1,1,10,1,5,1,3,1,1,3,2,2,3,1,4,1,1,1,1,1,1,1,4,1,1,3,1,11,1,1,7,2,1,7,3,1,6,4,5,1,2,1,2,2,1,4,2,2],"type":"scatter","mode":"markers","name":"Unknown","marker":{"color":"rgba(255,217,47,1)","line":{"color":"rgba(255,217,47,1)"}},"textfont":{"color":"rgba(255,217,47,1)"},"error_y":{"color":"rgba(255,217,47,1)"},"error_x":{"color":"rgba(255,217,47,1)"},"line":{"color":"rgba(255,217,47,1)"},"xaxis":"x2","yaxis":"y2","frame":null}],"layout":{"xaxis":{"domain":[0,0.48],"automargin":true,"anchor":"y"},"xaxis2":{"domain":[0.52,1],"automargin":true,"anchor":"y2"},"yaxis2":{"domain":[0,1],"automargin":true,"anchor":"x2"},"yaxis":{"domain":[0,1],"automargin":true,"anchor":"x"},"annotations":[],"shapes":[],"images":[],"margin":{"b":40,"l":60,"t":25,"r":10},"title":"Victims per Year by Attack Context (Left) and Attack Type (Right)","hovermode":"closest","showlegend":true},"attrs":{"65d424befa9d":{"x":{},"y":{},"color":{},"alpha_stroke":1,"sizes":[10,100],"spans":[1,20],"type":"scatter"},"65d476376c43":{"x":{},"y":{},"color":{},"alpha_stroke":1,"sizes":[10,100],"spans":[1,20],"type":"scatter"}},"source":"A","config":{"showSendToCloud":false},"highlight":{"on":"plotly_click","persistent":false,"dynamic":false,"selectize":false,"opacityDim":0.2,"selected":{"opacity":1},"debounce":0},"subplot":true,"shinyEvents":["plotly_hover","plotly_click","plotly_selected","plotly_relayout","plotly_brushed","plotly_brushing","plotly_clickannotation","plotly_doubleclick","plotly_deselect","plotly_afterplot","plotly_sunburstclick"],"base_url":"https://plot.ly"},"evals":[],"jsHooks":[]}</script>
 <p>Of known attack types affecting aid workers in Afghanistan, the most common are kidnappings, shootings, ambushes, and raids. The largest attack was a 2015 aerial bombardment by the U.S. military, in which aid workers were caught in combat/crossfire that left <a href="https://www.reuters.com/article/us-afghanistan-attack-hospital-patients/bombed-afghan-hospital-staff-helpless-as-patients-burned-in-wards-idUSKCN0RX0TP20151003">19 dead and 37 wounded</a> (including patients and aid workers).</p>
 <p>On October 3rd, 2015, following Taliban insurgents storming the capital, the U.S. military conducted a 4-hour airstrike that repeatedly and precisely hit a trauma hospital run by Médecins Sans Frontières (MSF, Doctors Without Borders), destroying the main hospital building. Patients unable to escape <a href="https://www.reuters.com/article/us-afghanistan-attack-hospital-patients/bombed-afghan-hospital-staff-helpless-as-patients-burned-in-wards-idUSKCN0RX0TP20151003">burned to death</a>, while hospital staff scrambled to evacuate as many patients as possible. Since its opening in 2011, the MSF Kunduz hospital had become an important <a href="https://www.msf.org/kunduz-hospital-attack-depth">lifeline</a> for thousands. On the night of the attack, 105 patients and 140 MSF staff were present in the hospital.</p>
 <p>The military initially justified the attack by claiming reports of Taliban militia on-site. MSF reported the hospital was clearly marked with updated GPS coordinates provided to American and Coalition forces as recently as one week before the attack. Furthermore, bombing continued for 30 minutes after MSF urgently communicated to military leadership that a hospital was being hit. Eventually, the U.S. stated that the airstrike was accidental. MSF has repeatedly called for an independent investigation of possible war crimes, which has not occurred.</p>
@@ -521,15 +521,17 @@ subplot(means_attack_p, attack_context_p)</code></pre>
 </div>
 <div id="location-of-attack" class="section level2">
 <h2>Location of Attack</h2>
-<p>Aid workers are targeted in a variety of settings, though some more than others.</p>
+<p>Aid workers are targeted in a variety of settings.</p>
 <pre class="r"><code>afghan_aidworker_df %&gt;% 
      ggplot(aes(x = location, fill = means_of_attack)) +
    geom_bar() +
   labs(
-    title = &quot;Total Attacks per Location, by Means of Attack (2008-2016)&quot;,
+    title = &quot;Total Attacks per Location, by Type of Attack (2008-2016)&quot;,
     x = &quot;Location&quot;,
     y = &quot;Number of Attacks&quot;
-  ) </code></pre>
+  ) + 
+  theme(legend.text=element_text(size=7)) +
+  theme(legend.title = element_blank())</code></pre>
 <p><img src="Afghanistan_case_study_files/figure-html/unnamed-chunk-5-1.png" width="90%" /></p>
 <p>Aid workers are most vulnerable when traveling on the road. In many of these incidents, aid workers are collateral damage, caught in the crossfire between government vehicles (Afghan National Army and International Security Assistance Force) and insurgent groups. After the International Security Assistance Force withdrew in 2011, road ambushes and attacks <a href="https://aidworkersecurity.org/sites/default/files/2020-08/Aid%20Worker%20Security%20Report%202014.pdf">increased substantially</a>.</p>
 <p>Roads are extremely difficult to protect. Attacks and ambush can come in the form of illegitimate checkpoints, road blocks, and geographically poorly protected areas (bends in the road, choke points). Drive-by shootings, carjacking, and IEDs (landmines) also represent major challenges to road travel. IEDs do not involve significant planning and are difficult to predict and avoid, making them <a href="https://aidworkersecurity.org/sites/default/files/2020-08/Aid%20Worker%20Security%20Report%202014.pdf">especially common and particularly dangerous</a>, as you can see in the figure above.</p>
@@ -549,22 +551,6 @@ subplot(means_attack_p, attack_context_p)</code></pre>
 <p><img src="Afghanistan_case_study_files/figure-html/unnamed-chunk-6-1.png" width="90%" /></p>
 <p>International organizations are more frequently targeted, especially in Afghanistan, due to local mistrust of international actors. Between the years of 2008-2016, these acts of violence were primarily perpetrated by the Taliban.</p>
 <p><img src="https://ichef.bbci.co.uk/news/976/cpsprodpb/15A39/production/_99733688_47cc661b-5a5f-4a23-966f-4eb1a35819f6.jpg" /> Islamic State militants bombed and sieged a Save the Children building in Jalalabad, Afghanistan in 2018 (via <a href="https://ichef.bbci.co.uk/news/976/cpsprodpb/15A39/production/_99733688_47cc661b-5a5f-4a23-966f-4eb1a35819f6.jpg">BBC</a>)</p>
-<pre class="r"><code>af_pct_intl_ntl =
-afghan_aidworker_df %&gt;%
-  group_by(year) %&gt;%
-  summarize(tot_national = sum(total_national_staff),
-            tot_intl = sum(total_international_staff),
-            tot_both = sum(total_victims),
-            pct_intl = (tot_intl/tot_both)*100,
-            pct_national = (tot_national/tot_both)*100) %&gt;%
-  
-  ggplot(aes(x = year, y = pct_national, col = 3)) +
-  geom_line() +
-   geom_line(aes(x = year, y = pct_intl, col = 2)) +
-   labs(
-    x = &quot;Year&quot;,
-    y = &quot;% Attacked&quot;
-   ) </code></pre>
 </div>
 <div id="aidworker-vs.-civilian-death" class="section level2">
 <h2>Aidworker vs. Civilian Death</h2>
@@ -614,7 +600,7 @@ afghan_upp_df %&gt;%
 # use patchwork to make two separate plots and have them side-by-side
 
 aidworker_deaths_p + civilian_deaths_p</code></pre>
-<p><img src="Afghanistan_case_study_files/figure-html/unnamed-chunk-8-1.png" width="90%" /></p>
+<p><img src="Afghanistan_case_study_files/figure-html/unnamed-chunk-7-1.png" width="90%" /></p>
 <div id="a-brief-timeline" class="section level3">
 <h3>A Brief Timeline</h3>
 <p><em>2010</em> - The spike in deaths of both aid workers and civilians coincides with a <a href="https://www.cfr.org/timeline/us-war-afghanistan">50% increase</a> in U.S. Military presence in Afghanistan that occurred in late 2009.</p>
